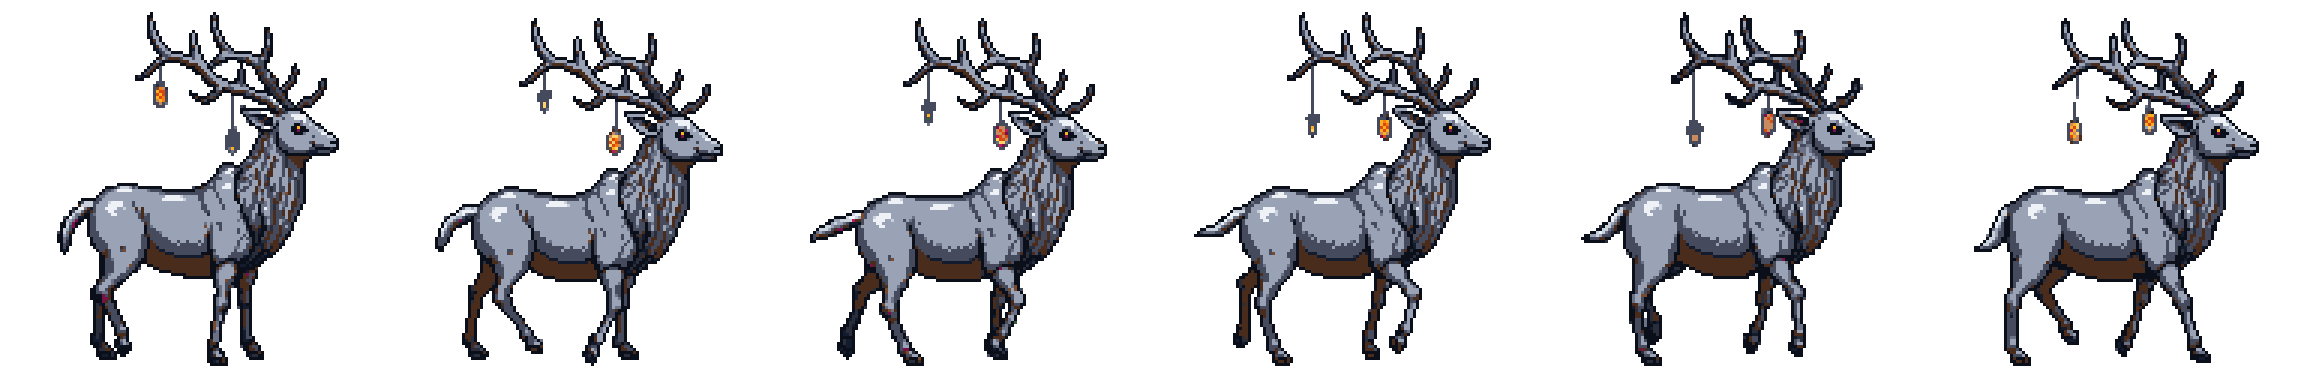
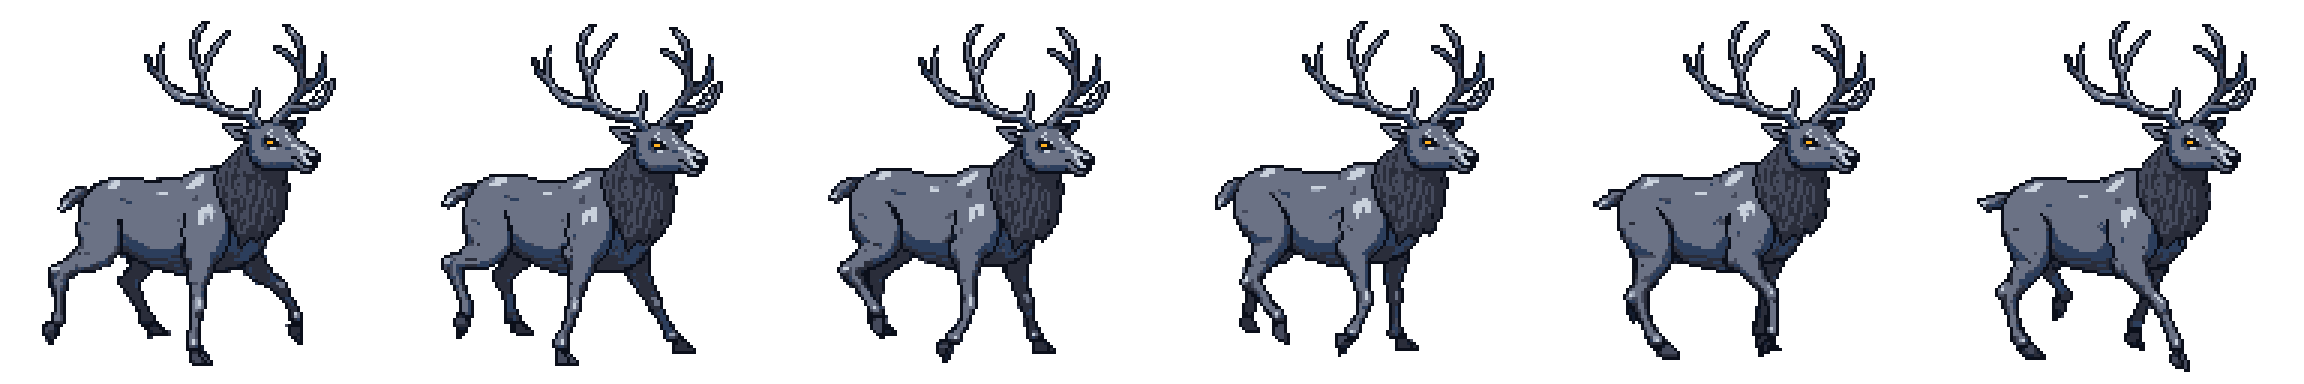
feat(boss): le Cerf de Cendre se présente en diagonale, pas de profil

diff --git a/packages/braise/assets/source/cinematique-stag-ash/README.md b/packages/braise/assets/source/cinematique-stag-ash/README.md
@@ -31,9 +31,11 @@ Même suffixe que `stag-call`.
 
 ## Le sprite du boss
 
-`boss-cerf-cendre` (dossier `../boss-cerf-cendre/`) : `create_map_object` 128 × 128, « low top-down »,
-puis `animate_object` v3, 6 images, « walking forward slowly and majestically, four-legged stag gait,
-grey ash flakes falling from its body ». Objet `77f53df9-16cc-4782-bb08-dc1fe9f70cd2`. Inscrit dans
+`boss-cerf-cendre` (dossier `../boss-cerf-cendre/`) : `create_map_object` 128 × 128, vue « high top-down »,
+pose en diagonale (trois quarts, tourné vers le bas-droite, tête vers la caméra), puis `animate_object` v3,
+6 images. Objet `85c517de-8d30-47d3-bb7b-b0f0f52864f7`. Il remplace une première version de profil
+(`77f53df9-16cc-4782-bb08-dc1fe9f70cd2`, « low top-down »), que l'auteur n'aimait pas. Une autre
+proposition « low top-down » (`62c1e19d-8f2e-4ffe-94ab-6036b7455fe1`) restait de profil. Inscrit dans
 `assets/pixellab.json` ; `pnpm assets:build` en fait `sprites/boss-cerf-cendre@6.png`.
 `../boss-cerf-cendre/apercu-x3.png` montre la bande agrandie.
 
@@ -41,5 +43,6 @@ grey ash flakes falling from its body ». Objet `77f53df9-16cc-4782-bb08-dc1fe9f
 
 - `ill-01` : deux lanternes du tas brillent orange, alors qu'elles devraient être mortes.
 - `ill-04` : les fissures du visage luisent d'un orange pâle, comme des braises dedans.
-- Le sprite animé est plus lisse que les illustrations (peu de fissures) et ses lanternes brillent
-  orange ; ses yeux ont un point ambre. Le moteur le fait pâlir et se défaire pendant sa reformation.
+- Le sprite en diagonale a perdu les lanternes et les fissures : il ressemble à un cerf vivant, gris et
+  sombre, aux yeux ambrés. À reprendre si l'auteur veut le look de cendre des illustrations.
+  Le moteur le fait pâlir et se défaire pendant sa reformation.
